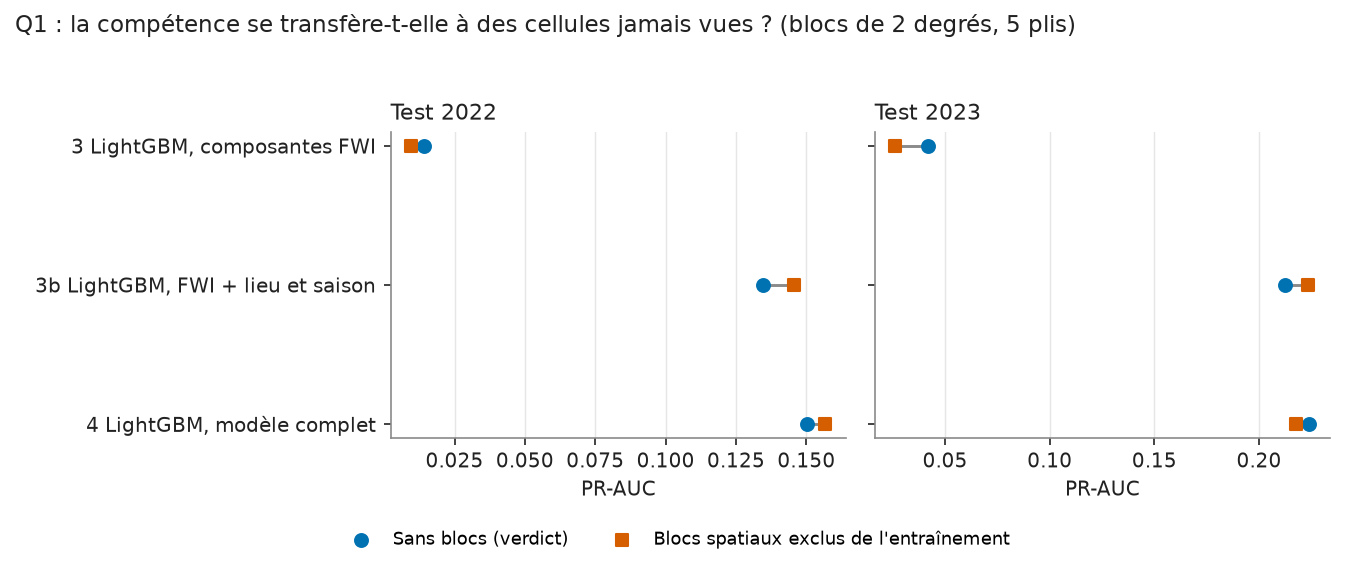
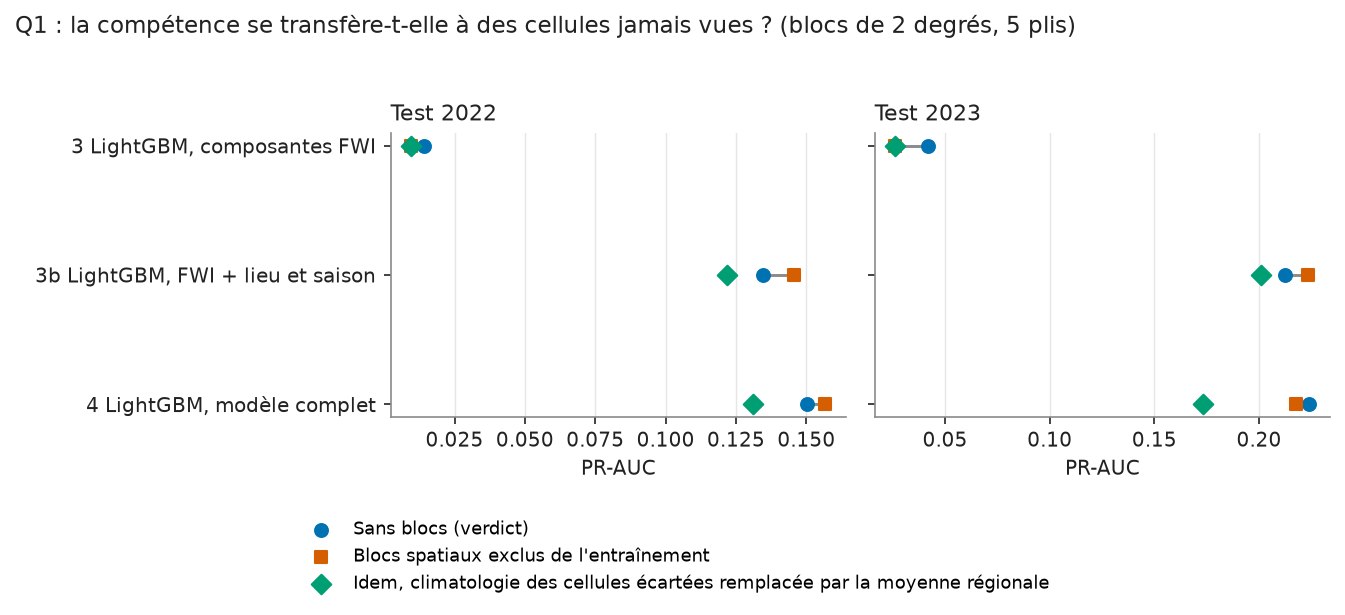
feat(docs): add the blocked-climatology result (E8) to the Q1 spatial blocks figure

diff --git a/scripts/model_figures.py b/scripts/model_figures.py
@@ -222,6 +222,7 @@ def q1_pr_auc(model_out: Path) -> Path:
 def q1_spatial_blocks() -> Path:
     """PR-AUC with and without holding out 2 degree spatial blocks (E1 of the spike)."""
     e1 = pd.read_csv(SPIKE_OUT / "exploratory_spatial_blocks.csv")
+    e8 = pd.read_csv(SPIKE_OUT / "exploratory_spatial_blocks_clim.csv")
     keys = ["lgbm_fwi", "lgbm_fwi_space", "lgbm_full"]
     fig, axes = plt.subplots(1, 2, figsize=(9.0, 3.6), sharey=True)
     for ax, year in zip(axes, (2022, 2023), strict=True):
@@ -231,16 +232,19 @@ def q1_spatial_blocks() -> Path:
             ax.plot([r["pr_auc"], r["pr_auc_unblocked"]], [y, y], color=GREY, lw=1.4, zorder=1)
         ax.scatter(d["pr_auc_unblocked"], ypos, color=BLUE, s=38, zorder=3, label="Sans blocs (verdict)")
         ax.scatter(d["pr_auc"], ypos, color=ORANGE, s=38, zorder=3, marker="s", label="Blocs spatiaux exclus de l'entraînement")
+        d8 = e8[e8["year"] == year].set_index("model").loc[keys]
+        ax.scatter(d8["pr_auc"], ypos, color=GREEN, s=44, zorder=4, marker="D",
+                   label="Idem, climatologie des cellules écartées remplacée par la moyenne régionale")
         ax.set_title(f"Test {year}", loc="left", fontsize=10.5, color=INK)
         ax.set_xlabel("PR-AUC")
         ax.grid(axis="y", visible=False)
     _models(axes[0], keys)
     axes[0].invert_yaxis()
     handles, labels = axes[0].get_legend_handles_labels()
-    fig.legend(handles, labels, loc="lower center", ncol=2, bbox_to_anchor=(0.5, -0.04), fontsize=8.5)
+    fig.legend(handles, labels, loc="lower center", ncol=1, bbox_to_anchor=(0.5, -0.12), fontsize=8.5)
     fig.suptitle("Q1 : la compétence se transfère-t-elle à des cellules jamais vues ? (blocs de 2 degrés, 5 plis)",
                  x=0.01, ha="left", fontsize=11, color=INK)
-    fig.tight_layout(rect=(0, 0.04, 1, 0.94))
+    fig.tight_layout(rect=(0, 0.08, 1, 0.94))
     return _save(fig, "q1_spatial_blocks.png")
 
 
